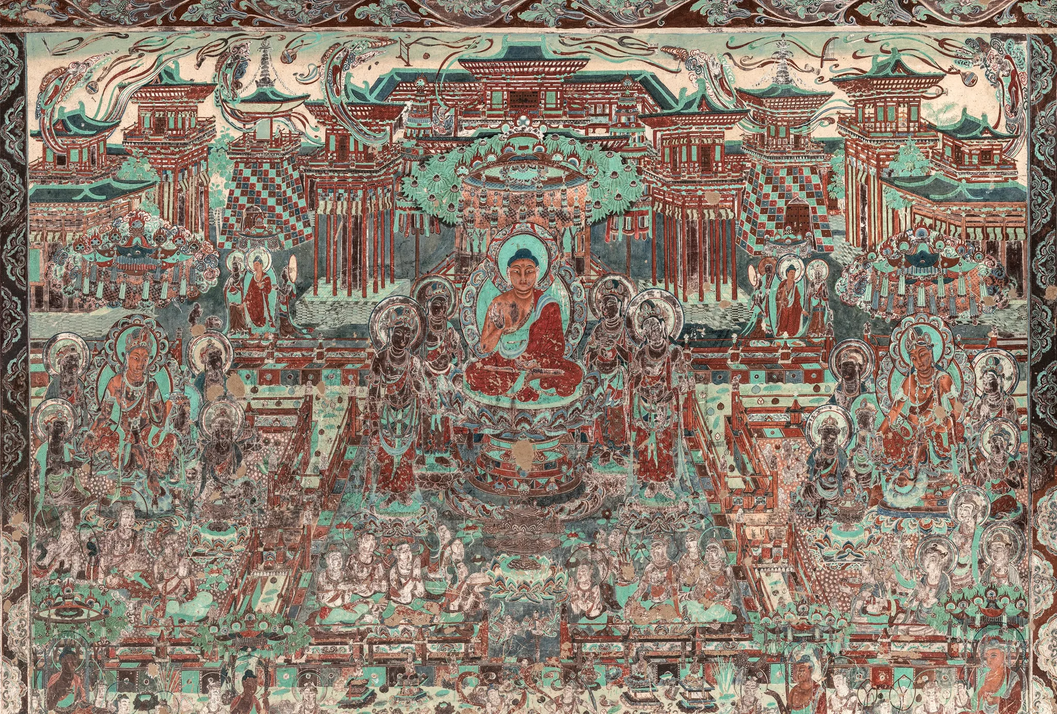
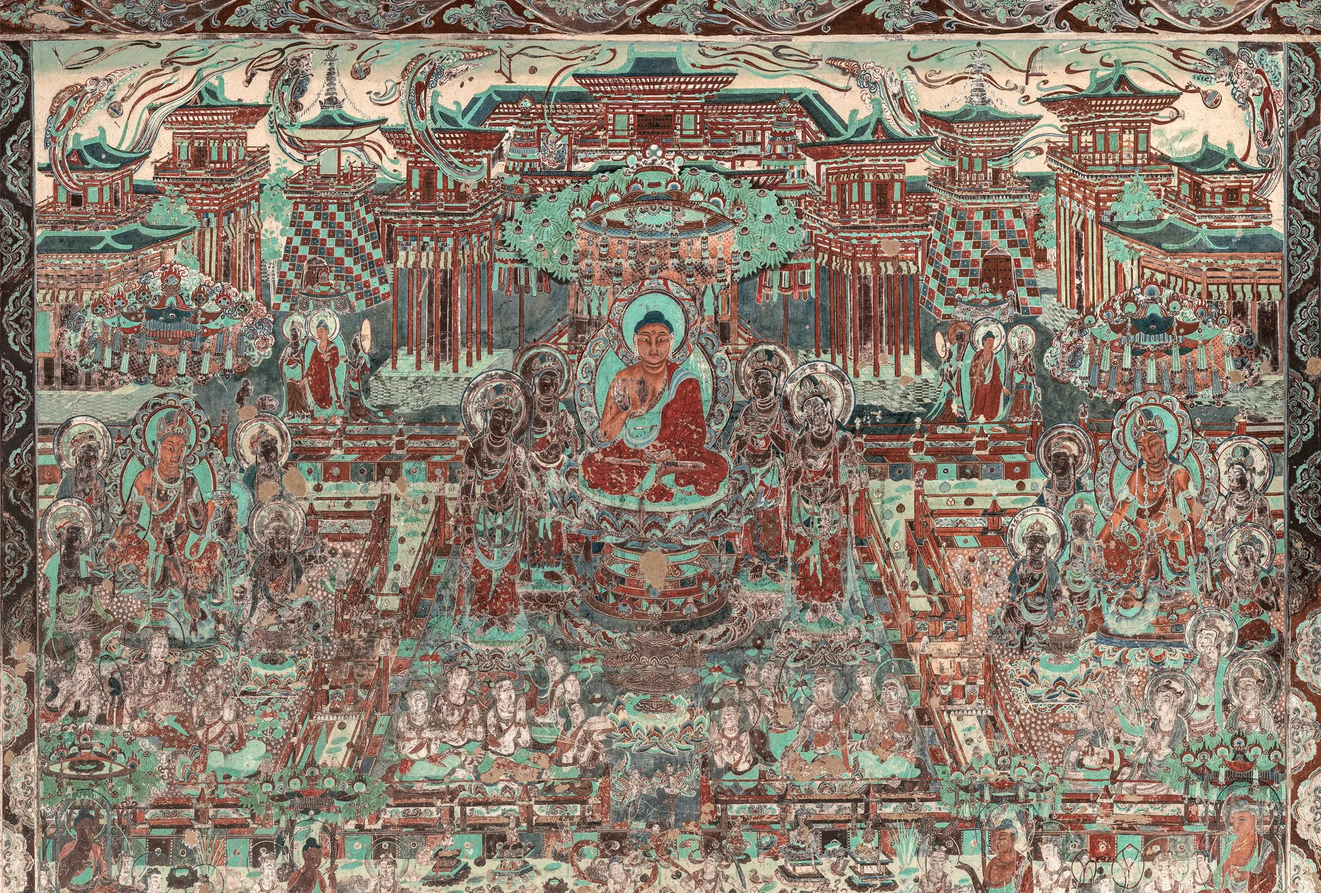
Temple: mobile polish — clean statue gold, sharper edges, softer prayer glow

Changed region(s): [[0.3125, 0.1553, 0.3438, 0.1864]]

diff --git a/temple/main.js b/temple/main.js
@@ -138,7 +138,7 @@ $('#lang').onclick = () => { store.set('lang', EN ? 'zh' : 'en'); const u = new 
 const app = $('#app');
 const isMobile = matchMedia('(pointer: coarse)').matches;
 const renderer = new THREE.WebGLRenderer({ antialias: !isMobile || devicePixelRatio < 2 });
-renderer.setPixelRatio(Math.min(devicePixelRatio, isMobile ? 1.25 : 1.5));   // ponytail: fixed caps; full retina was 4x the pixels for little visible gain
+renderer.setPixelRatio(Math.min(devicePixelRatio, isMobile ? 1.4 : 1.5));   // ponytail: fixed caps; full retina was 4x the pixels for little visible gain
 renderer.setSize(innerWidth, innerHeight);
 renderer.shadowMap.enabled = true;
 renderer.shadowMap.type = THREE.PCFSoftShadowMap;
@@ -168,7 +168,7 @@ const DBG = new URLSearchParams(location.search);   // ?nomsaa ?nomirror ?noao f
 // multisampled target: post-processing otherwise drops the canvas MSAA and thin edges shimmer as you move
 const composer = new EffectComposer(renderer, new THREE.WebGLRenderTarget(
   innerWidth * renderer.getPixelRatio(), innerHeight * renderer.getPixelRatio(),
-  { type: THREE.HalfFloatType, samples: DBG.has('nomsaa') ? 0 : isMobile ? 2 : 4 }));
+  { type: THREE.HalfFloatType, samples: DBG.has('nomsaa') ? 0 : 4 }));   // 4x on phones too: at their pixel ratio, 2x left jagged, sparkling edges
 composer.addPass(new RenderPass(scene, camera));
 const bloom = new UnrealBloomPass(new THREE.Vector2(innerWidth, innerHeight).multiplyScalar(0.5), 0.1, 0.4, 0.98);   // barely any glow: halos read as glare, not calm
 { const ss = bloom.setSize.bind(bloom); bloom.setSize = (w, h) => ss(w * 0.5, h * 0.5); }   // a soft glow needs no full-res blur
@@ -279,7 +279,8 @@ function gild(root) {
       // occlusion in the recesses and polish on the raised parts (worn smooth by hands)
       const w = Math.min(1024, src.width), h = Math.min(1024, src.height);
       const rd = document.createElement('canvas'); rd.width = w; rd.height = h;
-      const rg = rd.getContext('2d'); rg.filter = 'blur(2.5px)'; rg.drawImage(src, 0, 0, w, h);   // blurred: the scan's blocky compression noise read as a crunchy, pitted surface
+      const clean = cleanScanMap(o.material.map).image;                  // the atlas's white padding bled in as white specks (worst on phones)
+      const rg = rd.getContext('2d'); rg.filter = 'blur(2.5px)'; rg.drawImage(clean, 0, 0, w, h);   // blurred: the scan's blocky compression noise read as a crunchy, pitted surface
       const px = rg.getImageData(0, 0, w, h).data, L = new Float32Array(w * h);
       for (let i = 0; i < L.length; i++) L[i] = (0.3 * px[i * 4] + 0.59 * px[i * 4 + 1] + 0.11 * px[i * 4 + 2]) / 255;
       const sorted = L.slice().sort(), lo = sorted[Math.floor(L.length * 0.02)], hi = sorted[Math.floor(L.length * 0.98)];
@@ -307,7 +308,7 @@ function gild(root) {
     try { const sm = mergeVertices(g0, 1e-3); sm.computeVertexNormals(); o.geometry = sm; } catch (e) { console.warn('statue smoothing skipped', e); }
     // polished gilding; the scan's own shading doubles as occlusion, so folds and recesses darken and the form reads in 3D
     o.material = new THREE.MeshPhysicalMaterial({ color: 0xffc85a, map: detail, aoMap: ao, aoMapIntensity: 1,
-      roughnessMap: rough, metalness: 1, roughness: 0.32, clearcoat: 0.8, clearcoatRoughness: 0.05, envMapIntensity: 3.6 });
+      roughnessMap: rough, metalness: 1, roughness: isMobile ? 0.42 : 0.32, clearcoat: isMobile ? 0 : 0.8, clearcoatRoughness: 0.05, envMapIntensity: 3.6 });   // phones: a touch softer, so tiny highlights don't glitter into single bright pixels
   });
 }
 
@@ -474,17 +475,18 @@ scene.add(beams); noReflect.add(beams);
 function glory(on, dt) {
   GLORY.k += ((on ? 1 : 0) - GLORY.k) * (1 - Math.exp(-dt * (on ? 0.55 : 1.4)));   // swells in over a few seconds with the mantra, fades quicker
   const k = GLORY.k, t = clock.elapsedTime, pulse = 1 + Math.sin(t * 1.3) * 0.08 * k;
+  const soft = isMobile ? 0.55 : 0.8;                             // phones have no glow pass to soften it: the additive light stacked up and bleached the mural
   for (const h of GLORY.halos) {
-    h.body.material.color.setScalar(1 + k * 0.9 * pulse);
+    h.body.material.color.setScalar(1 + k * 0.7 * soft * pulse);
     h.head.material.color.setScalar(1 + k * 1.6 * pulse);
     h.rainbow.material.opacity = 0.3 + k * 0.35;                    // the rainbow brightens with the prayer
-    h.rays.visible = k > 0.01; h.rays.material.opacity = Math.min(1, k * 1.0 * pulse);
+    h.rays.visible = k > 0.01; h.rays.material.opacity = Math.min(1, k * soft * pulse);
     h.rays.rotation.z += dt * h.spin; h.rays.scale.setScalar(0.9 + k * 0.15);
   }
-  gloryLight.intensity = k * 140;
+  gloryLight.intensity = k * (isMobile ? 90 : 120);
   beams.visible = k > 0.01;
-  beams.children.forEach((b, i) => { b.material.opacity = k * (0.32 + 0.1 * Math.sin(t * 0.6 + i * 1.7)); });
-  if (GLORY.mural) GLORY.mural.material.emissiveIntensity = 0.14 + k * 0.22;
+  beams.children.forEach((b, i) => { b.material.opacity = k * soft * (0.3 + 0.1 * Math.sin(t * 0.6 + i * 1.7)); });
+  if (GLORY.mural) GLORY.mural.material.emissiveIntensity = 0.14 + k * 0.08;   // the painting brightens a little, never washes out
   motes.visible = k > 0.01; motes.material.opacity = k * 0.9;
   if (motes.visible) {
     for (let i = 0; i < MOTES; i++) {
